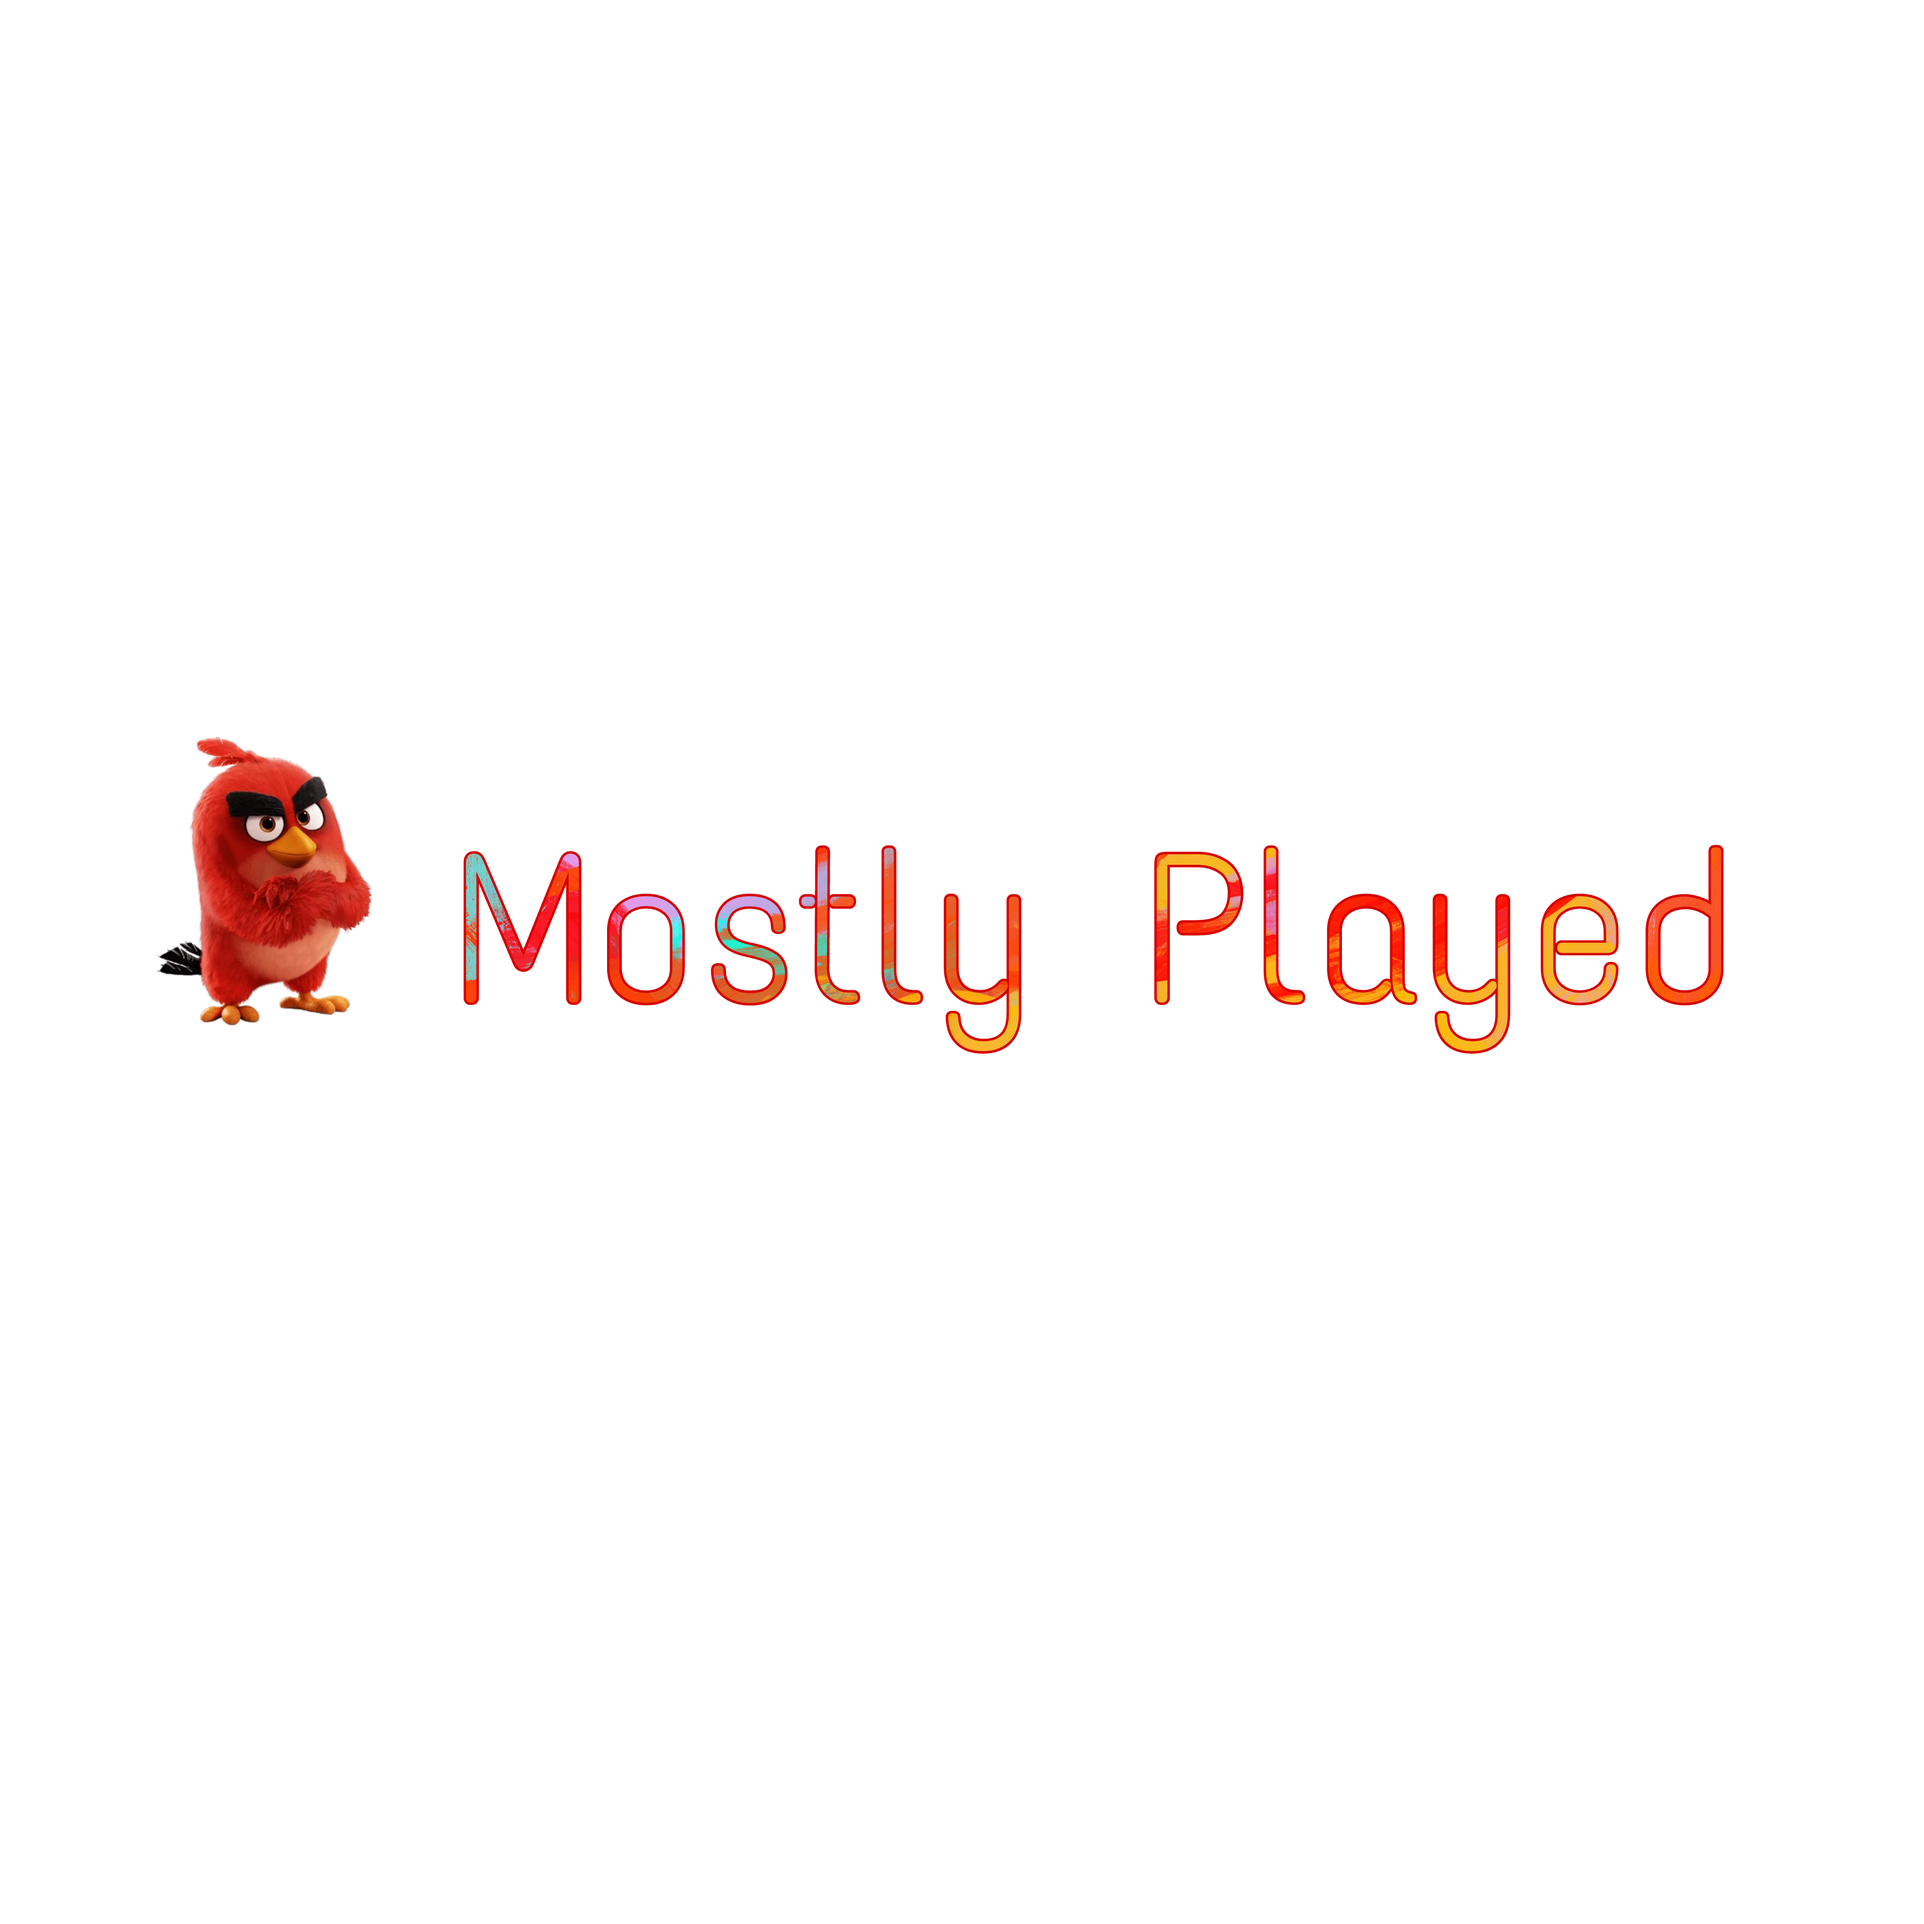
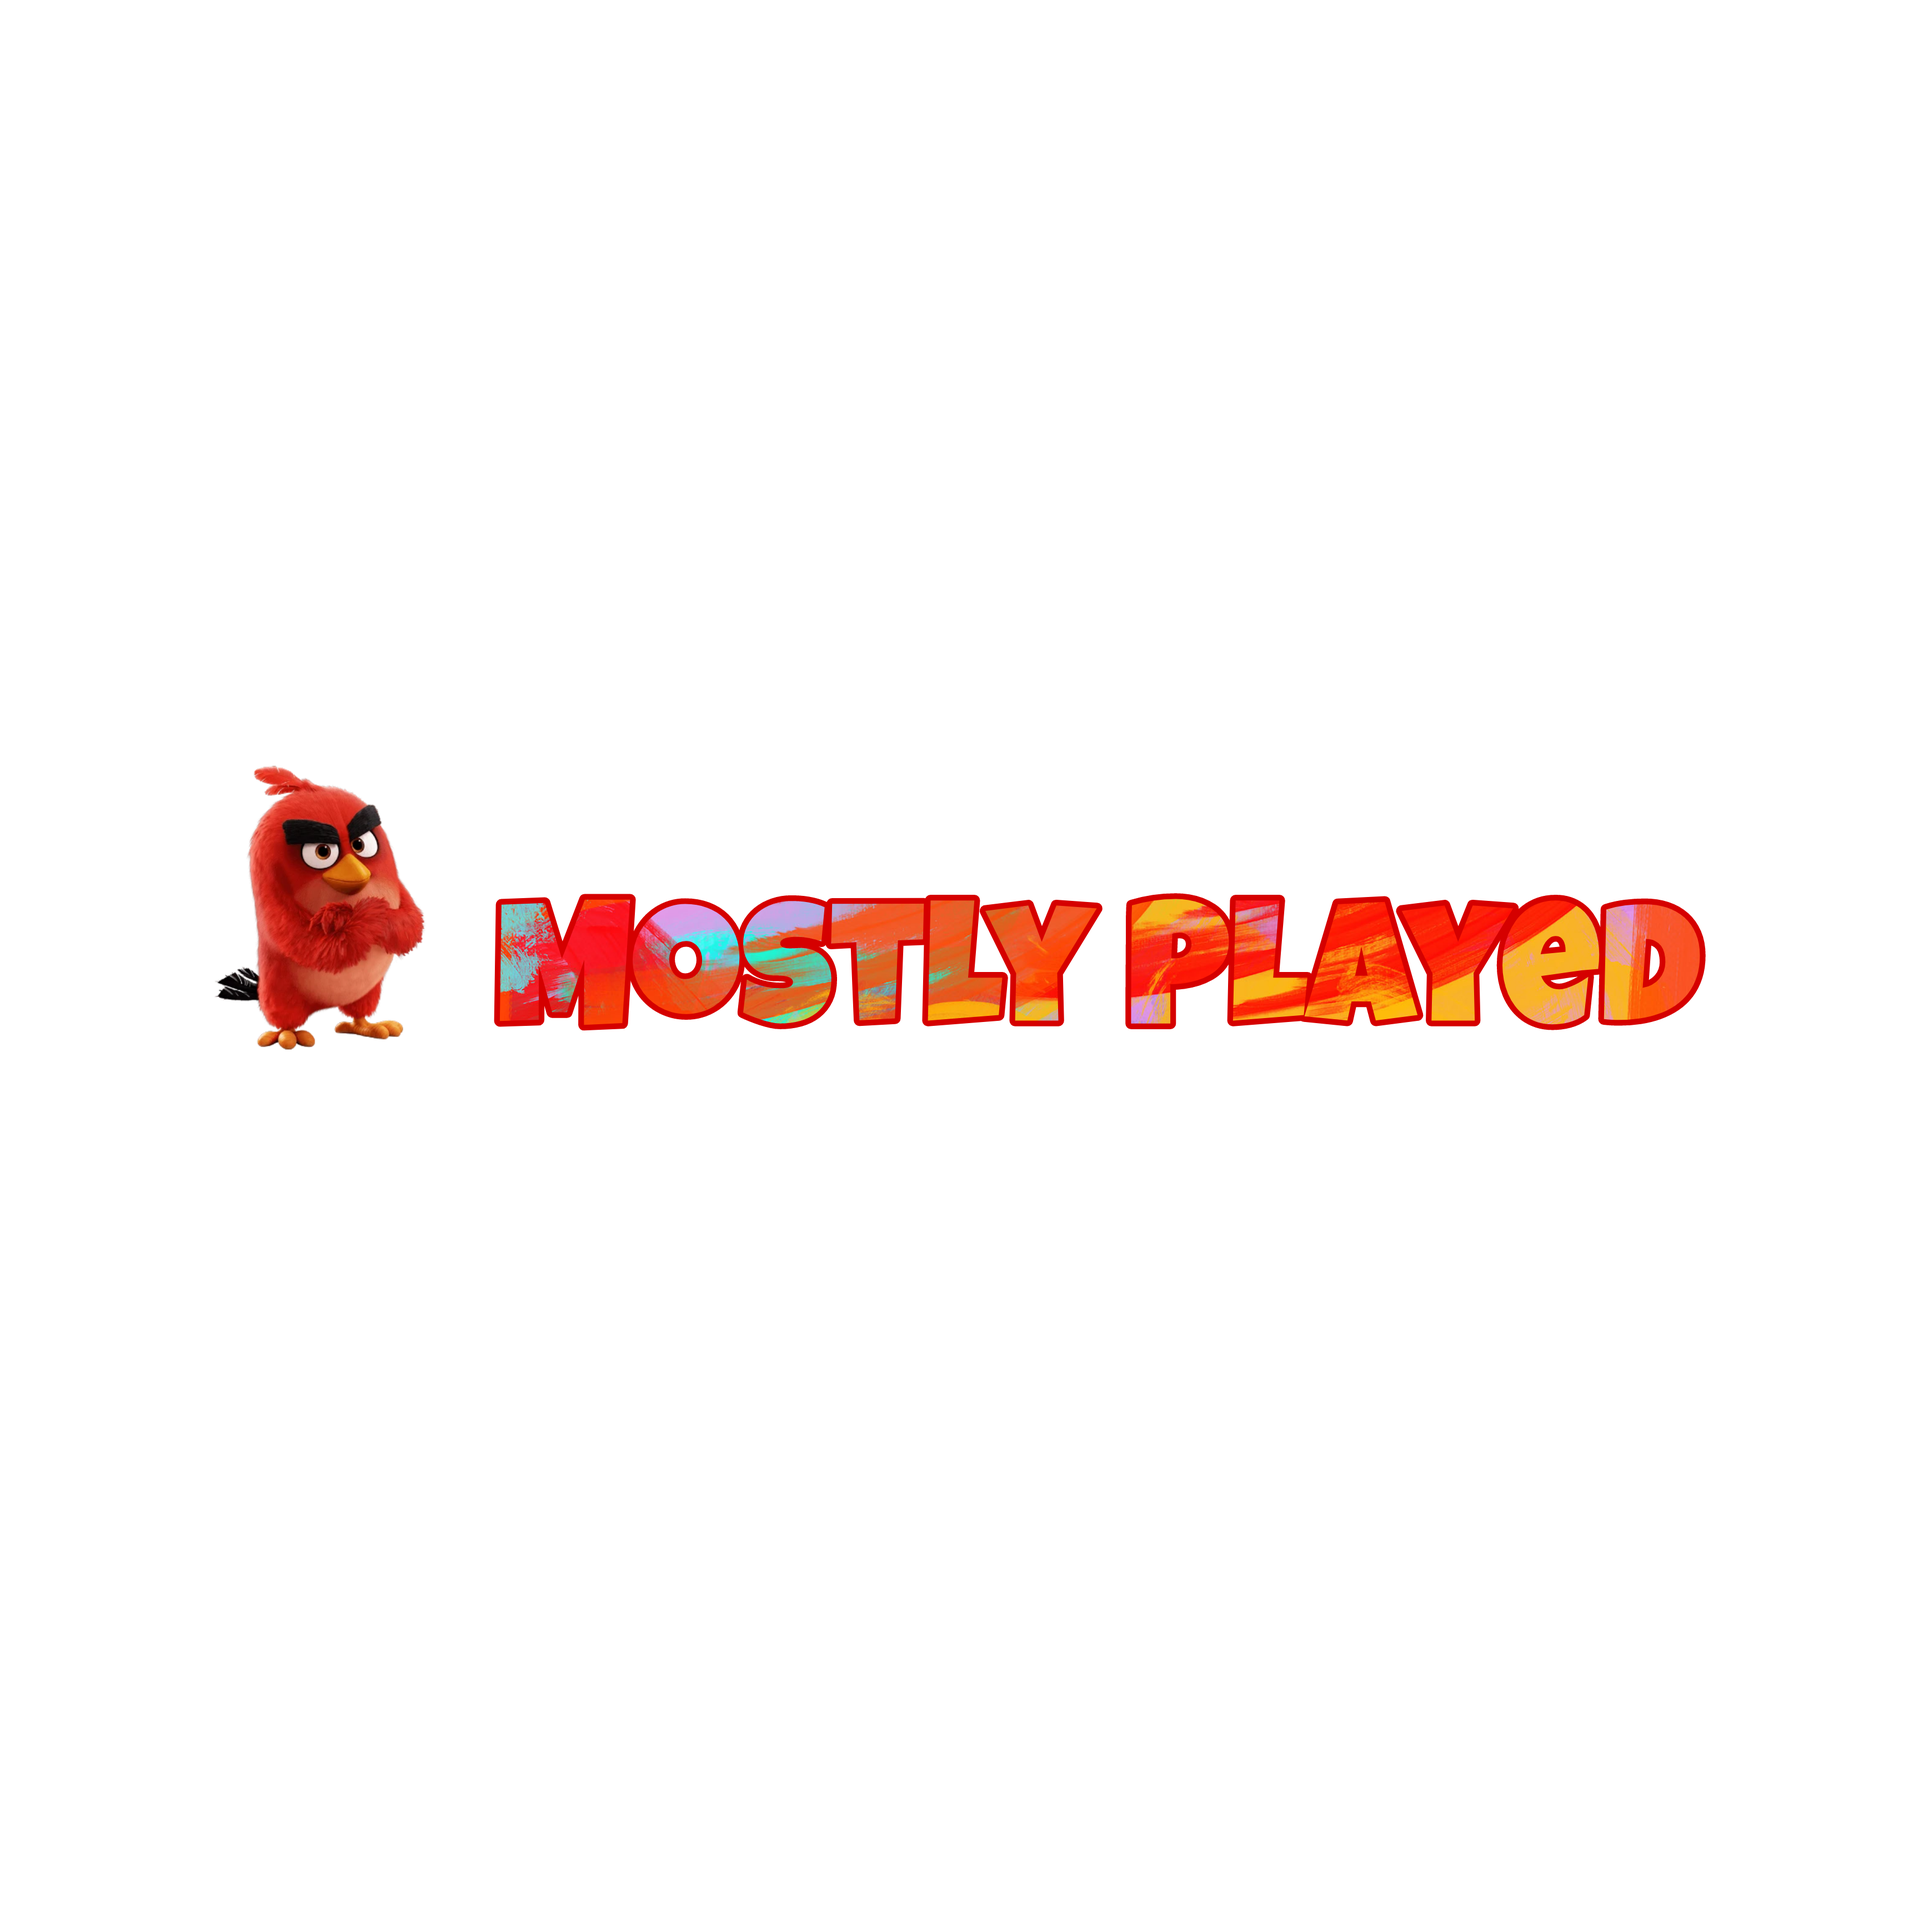
commit

Changed region(s): [[0.0935, 0.3741, 0.9042, 0.5612]]

diff --git a/lib/mostly_played/mostly_playedscreen.dart b/lib/mostly_played/mostly_playedscreen.dart
@@ -30,7 +30,7 @@ class _MostlyPlayedScreenState extends State<MostlyPlayedScreen> {
     fullSongForMostly = allSongList.values.toList();
     List<MostlyModel> msPldSongList = mostlyPlayedBox.values.toList();
 
-   // log(msPldSongList.toString());
+    // log(msPldSongList.toString());
 
     for (var oneSong in msPldSongList) {
       if (oneSong.songCount >= 3) {
@@ -61,54 +61,61 @@ class _MostlyPlayedScreenState extends State<MostlyPlayedScreen> {
     final mqwidth = MediaQuery.of(context).size.width;
 
     return Scaffold(
-    //  backgroundColor: musiCityBgColor,
+      //  backgroundColor: musiCityBgColor,
       body: Column(
         children: [
           SizedBox(
             height: mqheight * .05,
           ),
           SizedBox(
-            height: mqheight * 0.05,
+            height: mqheight * 0.1,
             child: Row(
-              mainAxisAlignment: MainAxisAlignment.center,
+              mainAxisAlignment: MainAxisAlignment.spaceEvenly,
               children: [
-                Text(
-                  "Mostly Played",
-                  style: headingStyle,
-                ),SizedBox(
-                  width: mqwidth*0.08,
+                Container(
+                  height: mqheight * 0.28,
+                  width: mqwidth * 0.815,
+                  decoration: const BoxDecoration(
+                  //  color: Colors.amber,
+                    image: DecorationImage(
+                        image: AssetImage('assets/mostly.png'),
+                        fit: BoxFit.cover),
+                  ),
+                ),
+                SizedBox(
+                  width: mqwidth * 0.06,
                 ),
                 IconButton(
                   onPressed: () {
                     showDialog(
-                          context: context,
-                          builder: (context) {
-                            return AlertDialog(
-                              title: const Text(
-                                  "Do you want to clear all songs..?"),
-                              content: const Text("Are you Sure..."),
-                              actions: [
-                                TextButton(
-                                  onPressed: () {
-                                    Navigator.pop(context);
-                                  },
-                                  child: const Text("Cancel"),
-                                ),
-                                TextButton(
-                                    onPressed: () {
-                                      mostlyScreenSongs.clear();
-                                      setState(() {});
-                                      Navigator.pop(context);
-                                    },
-                                    child: const Text("Yes"))
-                              ],
-                            );
-                          },
+                      context: context,
+                      builder: (context) {
+                        return AlertDialog(
+                          title:
+                              const Text("Do you want to clear all songs..?"),
+                          content: const Text("Are you Sure..."),
+                          actions: [
+                            TextButton(
+                              onPressed: () {
+                                Navigator.pop(context);
+                              },
+                              child: const Text("Cancel"),
+                            ),
+                            TextButton(
+                                onPressed: () {
+                                  mostlyScreenSongs.clear();
+                                  setState(() {});
+                                  Navigator.pop(context);
+                                },
+                                child: const Text("Yes"))
+                          ],
                         );
+                      },
+                    );
                   },
                   icon: const Icon(
                     Icons.delete,
-                   // color: whiteColor,
+                    // color: whiteColor,
                   ),
                 ),
               ],
@@ -164,10 +171,9 @@ class _MostlyPlayedScreenState extends State<MostlyPlayedScreen> {
                               artworkQuality: FilterQuality.high,
                               quality: 100,
                               artworkBorder: BorderRadius.circular(30),
-                              nullArtworkWidget:  CircleAvatar(
+                              nullArtworkWidget: CircleAvatar(
                                 radius: 25,
-                                backgroundImage: AssetImage(
-                                    leadingImage),
+                                backgroundImage: AssetImage(leadingImage),
                               ),
                             ),
                             title: Text(

diff --git a/lib/recently_played/recently_playedscreen.dart b/lib/recently_played/recently_playedscreen.dart
@@ -52,55 +52,55 @@ class _RecentlyPlayedScreenState extends State<RecentlyPlayedScreen> {
       body: Column(
         children: [
           SizedBox(
-            height: mqheight * .05,
+            height: mqheight * .045,
           ),
           SizedBox(
-            height: mqheight * 0.05,
+            height: mqheight * 0.1,
             child: Row(
+              mainAxisAlignment: MainAxisAlignment.spaceEvenly,
               children: [
-                Padding(
-                  padding:
-                      EdgeInsets.fromLTRB(mqwidth * 0.05, 0, mqwidth * 0.05, 0),
-                  child: Text(
-                    "Recently Played",
-                    style: headingStyle,
-                  ),
+                Container(
+                   height: mqheight * 0.29,
+                width: mqwidth * 0.83,
+                decoration: const BoxDecoration(
+                  //color: Colors.amber,
+                  image: DecorationImage(
+                      image: AssetImage('assets/recently.png'),
+                      fit: BoxFit.cover),
                 ),
-                Padding(
-                  padding: EdgeInsets.fromLTRB(mqwidth * 0.0, 0, 0, 0),
-                  child: IconButton(
-                      onPressed: () {
-                        showDialog(
-                          context: context,
-                          builder: (context) {
-                            return AlertDialog(
-                              title: const Text(
-                                  "Do you want to delete whole recent songs..?"),
-                              content: const Text("Are you Sure..."),
-                              actions: [
-                                TextButton(
+                ),
+                IconButton(
+                    onPressed: () {
+                      showDialog(
+                        context: context,
+                        builder: (context) {
+                          return AlertDialog(
+                            title: const Text(
+                                "Do you want to delete whole recent songs..?"),
+                            content: const Text("Are you Sure..."),
+                            actions: [
+                              TextButton(
+                                onPressed: () {
+                                  Navigator.pop(context);
+                                },
+                                child: const Text("Cancel"),
+                              ),
+                              TextButton(
                                   onPressed: () {
+                                    recentlyPlayedBox.clear();
+                                    setState(() {});
                                     Navigator.pop(context);
                                   },
-                                  child: const Text("Cancel"),
-                                ),
-                                TextButton(
-                                    onPressed: () {
-                                      recentlyPlayedBox.clear();
-                                      setState(() {});
-                                      Navigator.pop(context);
-                                    },
-                                    child: const Text("Yes"))
-                              ],
-                            );
-                          },
-                        );
-                      },
-                      icon:const Icon(
-                        Icons.delete,
-                       // color: whiteColor,
-                      ),),
-                )
+                                  child: const Text("Yes"))
+                            ],
+                          );
+                        },
+                      );
+                    },
+                    icon:const Icon(
+                      Icons.delete,
+                     // color: whiteColor,
+                    ),)
               ],
             ),
           ),

diff --git a/lib/screens/playlists.dart b/lib/screens/playlists.dart
@@ -25,13 +25,17 @@ class _PlaylistScreenState extends State<PlaylistScreen> {
           Padding(
             padding:
                 EdgeInsets.fromLTRB(mqwidth * 0.005, mqheight * 0.05, 0, 0),
-            child: Text(
-              "Playlist's",
-              style: headingStyle,
+            child: Container(
+              height: mqheight * 0.1,
+              width: mqwidth * 0.8,
+              decoration: const BoxDecoration(
+                //  color: Colors.amber,
+                image: DecorationImage(
+                  image: AssetImage('assets/playlist.png'),
+                  fit: BoxFit.cover,
+                ),
+              ),
             ),
-          ),
-          SizedBox(
-            height: mqheight * 0.05,
           ),
           InkWell(
             onTap: () {

diff --git a/lib/my_playlists/my_playlistscreen.dart b/lib/my_playlists/my_playlistscreen.dart
@@ -102,10 +102,17 @@ class _MyPlaylistState extends State<MyPlaylist> {
       body: Column(
         children: [
           Padding(
-            padding: EdgeInsets.fromLTRB(mqwidth * 0.0, mqheight * 0.05, 0, 0),
-            child: Text(
-              "My Playlist's",
-              style: headingStyle,
+            padding: EdgeInsets.fromLTRB(0,mqheight*0.033, 0, 0),
+            child: Container(
+              height: mqheight * 0.1,
+              width: mqwidth * 0.8,
+              decoration: const BoxDecoration(
+                 // color: Colors.amber,
+                image: DecorationImage(
+                  image: AssetImage('assets/myplaylist.png'),
+                  fit: BoxFit.cover,
+                ),
+              ),
             ),
           ),
           SizedBox(

diff --git a/lib/favorites/favorite_screen.dart b/lib/favorites/favorite_screen.dart
@@ -48,9 +48,17 @@ class _FavoritesScreenState extends State<FavoritesScreen> {
         children: [
           Padding(
             padding: EdgeInsets.fromLTRB(mqwidth * 0.05, mqheight * 0.05, 0, 0),
-            child: Text(
-              "Favorite's",
-              style: headingStyle,
+            child: Container(
+               height: mqheight * 0.1,
+              width: mqwidth * 0.8,
+              decoration: const BoxDecoration(
+                //  color: Colors.amber,
+                image: DecorationImage(
+                  image: AssetImage('assets/favorite.png'),
+                  fit: BoxFit.cover,
+                ),
+              ),
+              
             ),
           ),
           Expanded(

diff --git a/lib/functions/functions.dart b/lib/functions/functions.dart
@@ -24,7 +24,7 @@ dynamic conatainerDecoration = BoxDecoration(
   ],
 );
 
-final defaultTextStyle = GoogleFonts.biryani(fontSize: 30, );
+final defaultTextStyle = GoogleFonts.biryani(fontSize: 25, );
 final headingStyle = GoogleFonts.seymourOne(fontSize: 25,fontWeight: FontWeight.w800);
 final songNameStyle = GoogleFonts.rowdies();
 String areYouSure = "Are you sure..?";
